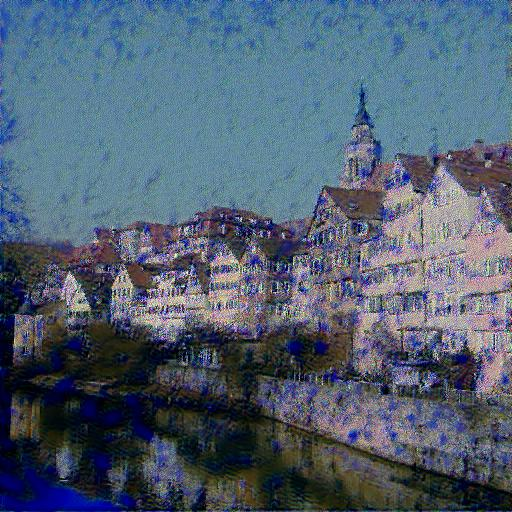
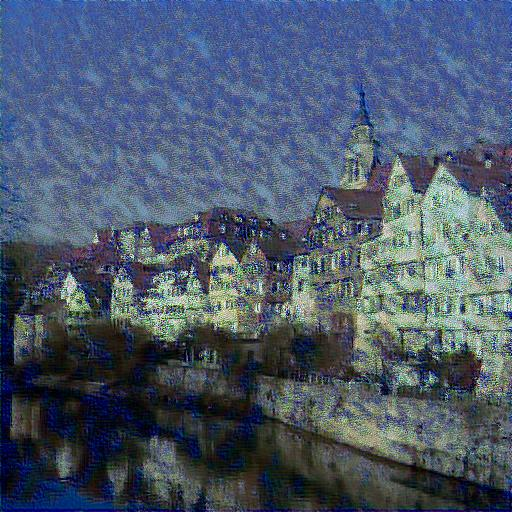
test

diff --git a/stylenet/stylenet.py b/stylenet/stylenet.py
@@ -159,25 +159,26 @@ def build_style_loss(layers):
 
     # Tabulate style loss for all style layers
     style_loss = K.variable(0.0)
-    for layer_name in STYLE_LAYERS:
+    #for layer_name in STYLE_LAYERS:
         # Extract style and pastiche features from layer
-        layer = layers[layer_name]
-        style = layer[STYLE_INDEX, :, :, :]
-        pastiche = layer[PASTICHE_INDEX, :, :, :]
+    #layer = layers[layer_name]
+    layer = layers[STYLE_LAYERS[0]]
+    style = layer[STYLE_INDEX, :, :, :]
+    pastiche = layer[PASTICHE_INDEX, :, :, :]
 
-        # Compute gram matrixes
-        style_gram = compute_gram_mat(style)
-        pastiche_gram = compute_gram_mat(pastiche)
+    # Compute gram matrixes
+    style_gram = compute_gram_mat(style)
+    pastiche_gram = compute_gram_mat(pastiche)
 
-        # Compute style loss for layer
-        # Ls = sum((Pl - Gl)^2) / (4 * Nl^2 * Ml ^ 2)
-        N, M = 3, IMAGE_DIM[0] * IMAGE_DIM[1]
-        layer_style_loss = K.sum(K.square(pastiche_gram - style_gram)) / \
-            (4 * (N ** 2) * (M ** 2))
+    # Compute style loss for layer
+    # Ls = sum((Pl - Gl)^2) / (4 * Nl^2 * Ml ^ 2)
+    N, M = 3, IMAGE_DIM[0] * IMAGE_DIM[1]
+    layer_style_loss = K.sum(K.square(pastiche_gram - style_gram)) / \
+        (4 * (N ** 2) * (M ** 2))
 
-        style_loss = style_loss + (STYLE_WEIGHT / len(STYLE_LAYERS)) * layer_style_loss
-    
-    
+    style_loss = style_loss + (STYLE_WEIGHT / len(STYLE_LAYERS)) * layer_style_loss
+
+
     return style_loss
 
 # Build the computational graph that will find the total variation loss for 
